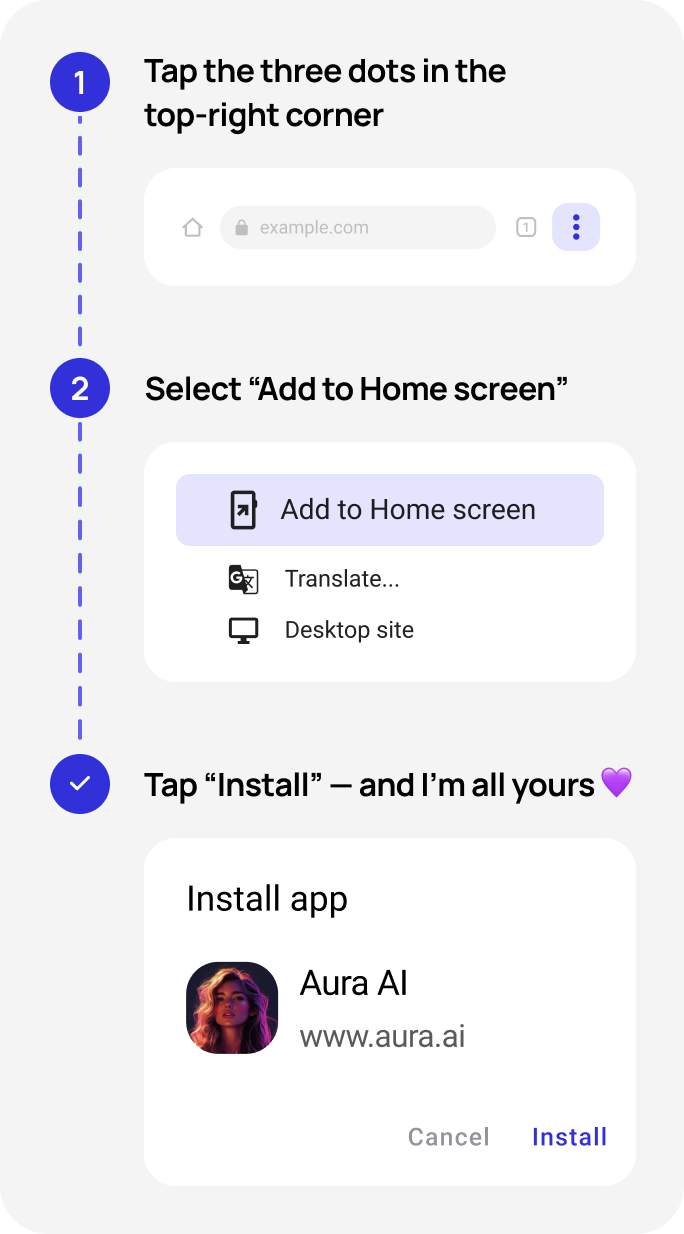
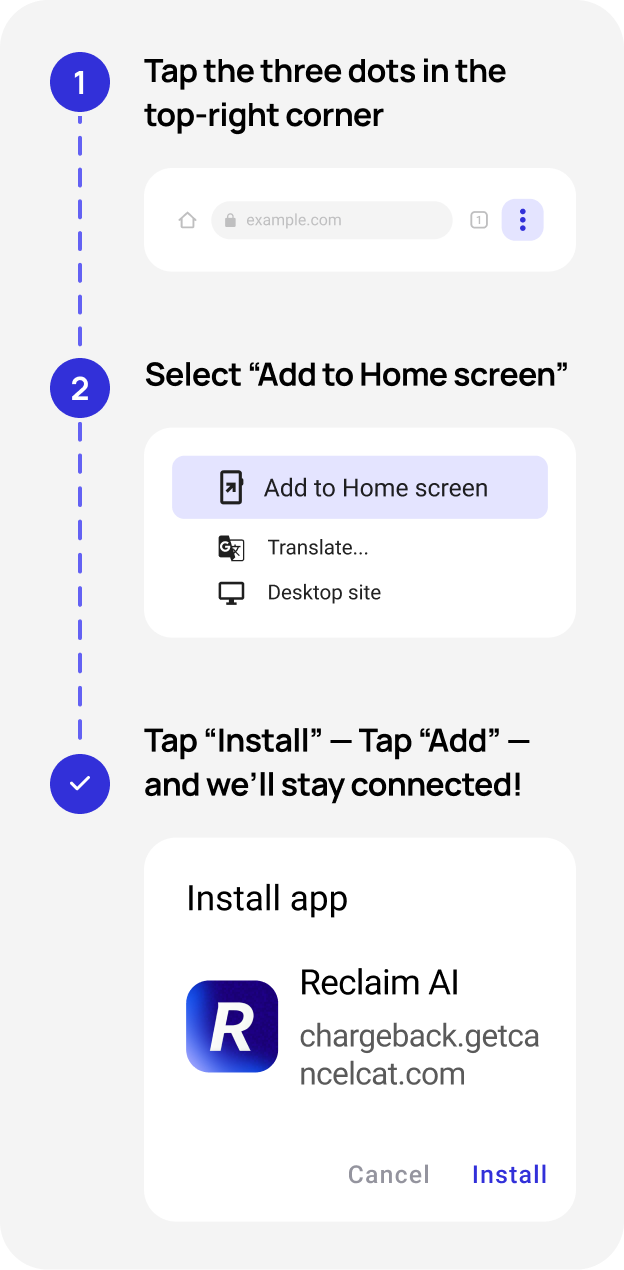
shortcut modal

diff --git a/src/components/Modal/shortcut.js b/src/components/Modal/shortcut.js
@@ -25,19 +25,19 @@ export default function ShortcutModal() {
 
   return (
     <div className={styles.shortcut}>
-      <div className={styles.heading}>Add Application to Your Home Screen</div>
+      <div className={styles.heading}>Add Reclaim AI to Your Home Screen</div>
       <main className={styles.main}>
         <div className={styles.content}>
           <div className={styles.chat}>
             <Image
-              src="/ai-avatar.png"
+              src="/apple-icon-114x114.png"
               width={52}
               priority
               height={52}
               alt="AI assistant"
             />
             <div>
-              Hi, I&apos;m your AI assistant — always here, just one tap away 😊
+              Hi, I&apos;m your Reclaim AI — always here, just one tap away 😊
             </div>
           </div>
           <div className={styles.instructions}>

diff --git a/src/components/Modal/modal.module.scss b/src/components/Modal/modal.module.scss
@@ -456,6 +456,10 @@
         gap: 8px;
         margin-bottom: 40px;
 
+        img {
+            border-radius: 50%;
+        }
+
         div {
             border-radius: 24px 24px 24px 0;
             background: #F4F4F4;
